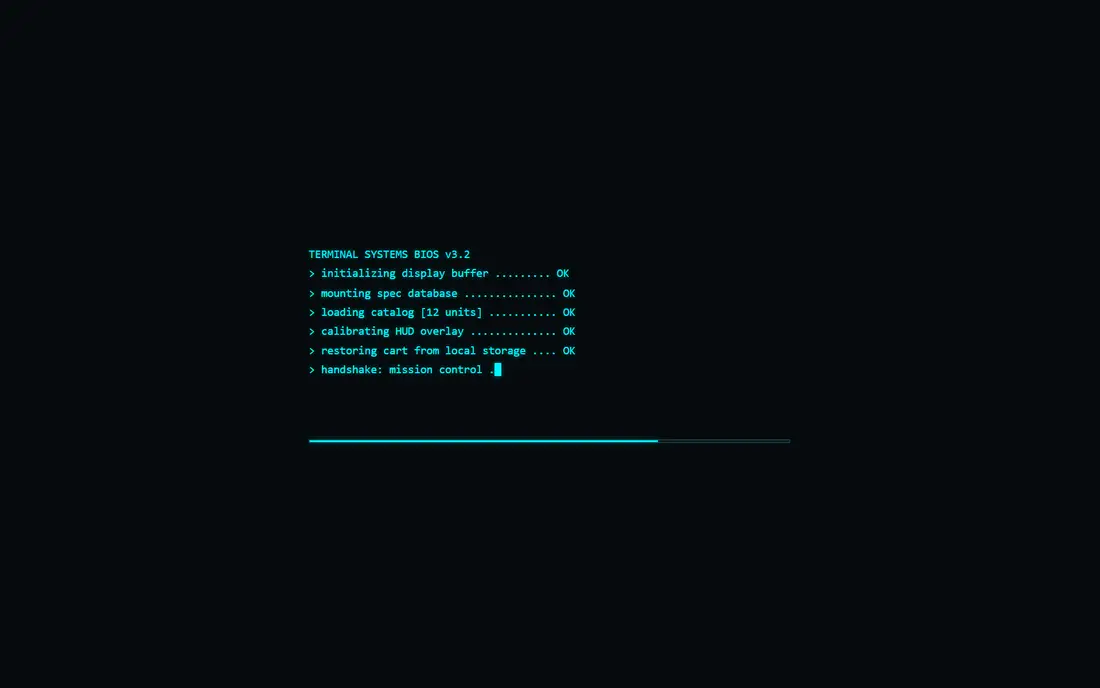
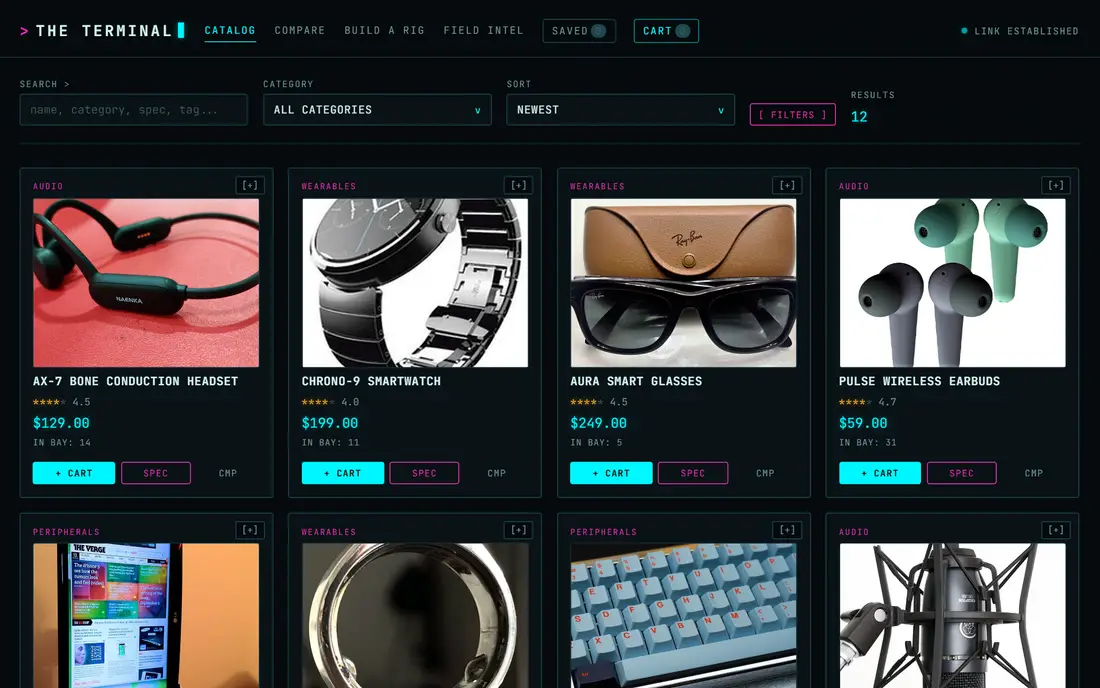
fix(soundroom): point shared songs path at the kebab folder
The rename left `SP = '../Spotify Clone/songs/'`, so every preset
album's cover art 404'd. Now `../spotify-clone/songs/`.

Also re-shot two portfolio thumbnails: SoundRoom on the deck so the
album and track covers show, and The Terminal after its boot sequence
finishes so it shows the catalogue.

diff --git a/spotify-clone/script.js b/spotify-clone/script.js
@@ -209,7 +209,7 @@ async function loadAlbums() {
     const text = await res.text();
     const div  = document.createElement('div');
     div.innerHTML = text;
-    const base = new URL('songs/', location.href).pathname; // .../Spotify Clone/songs/
+    const base = new URL('songs/', location.href).pathname; // .../spotify-clone/songs/
     folders = [...div.querySelectorAll('a')]
       .map(a => {
         const p = new URL(a.getAttribute('href'), res.url).pathname;

diff --git a/soundroom/script.js b/soundroom/script.js
@@ -6,7 +6,7 @@
 'use strict';
 
 /* ── Preset albums ───────────────────────────── */
-const SP = '../Spotify Clone/songs/';  // shared songs folder
+const SP = '../spotify-clone/songs/';  // shared songs folder
 
 const GNX_SONGS = [
   { title: 'wacced out murals',    artist: 'Kendrick Lamar', file: 'songs/1.mp3',  cover: 'covers/1.jpg',  duration: '5:17', lyrics: '' },
